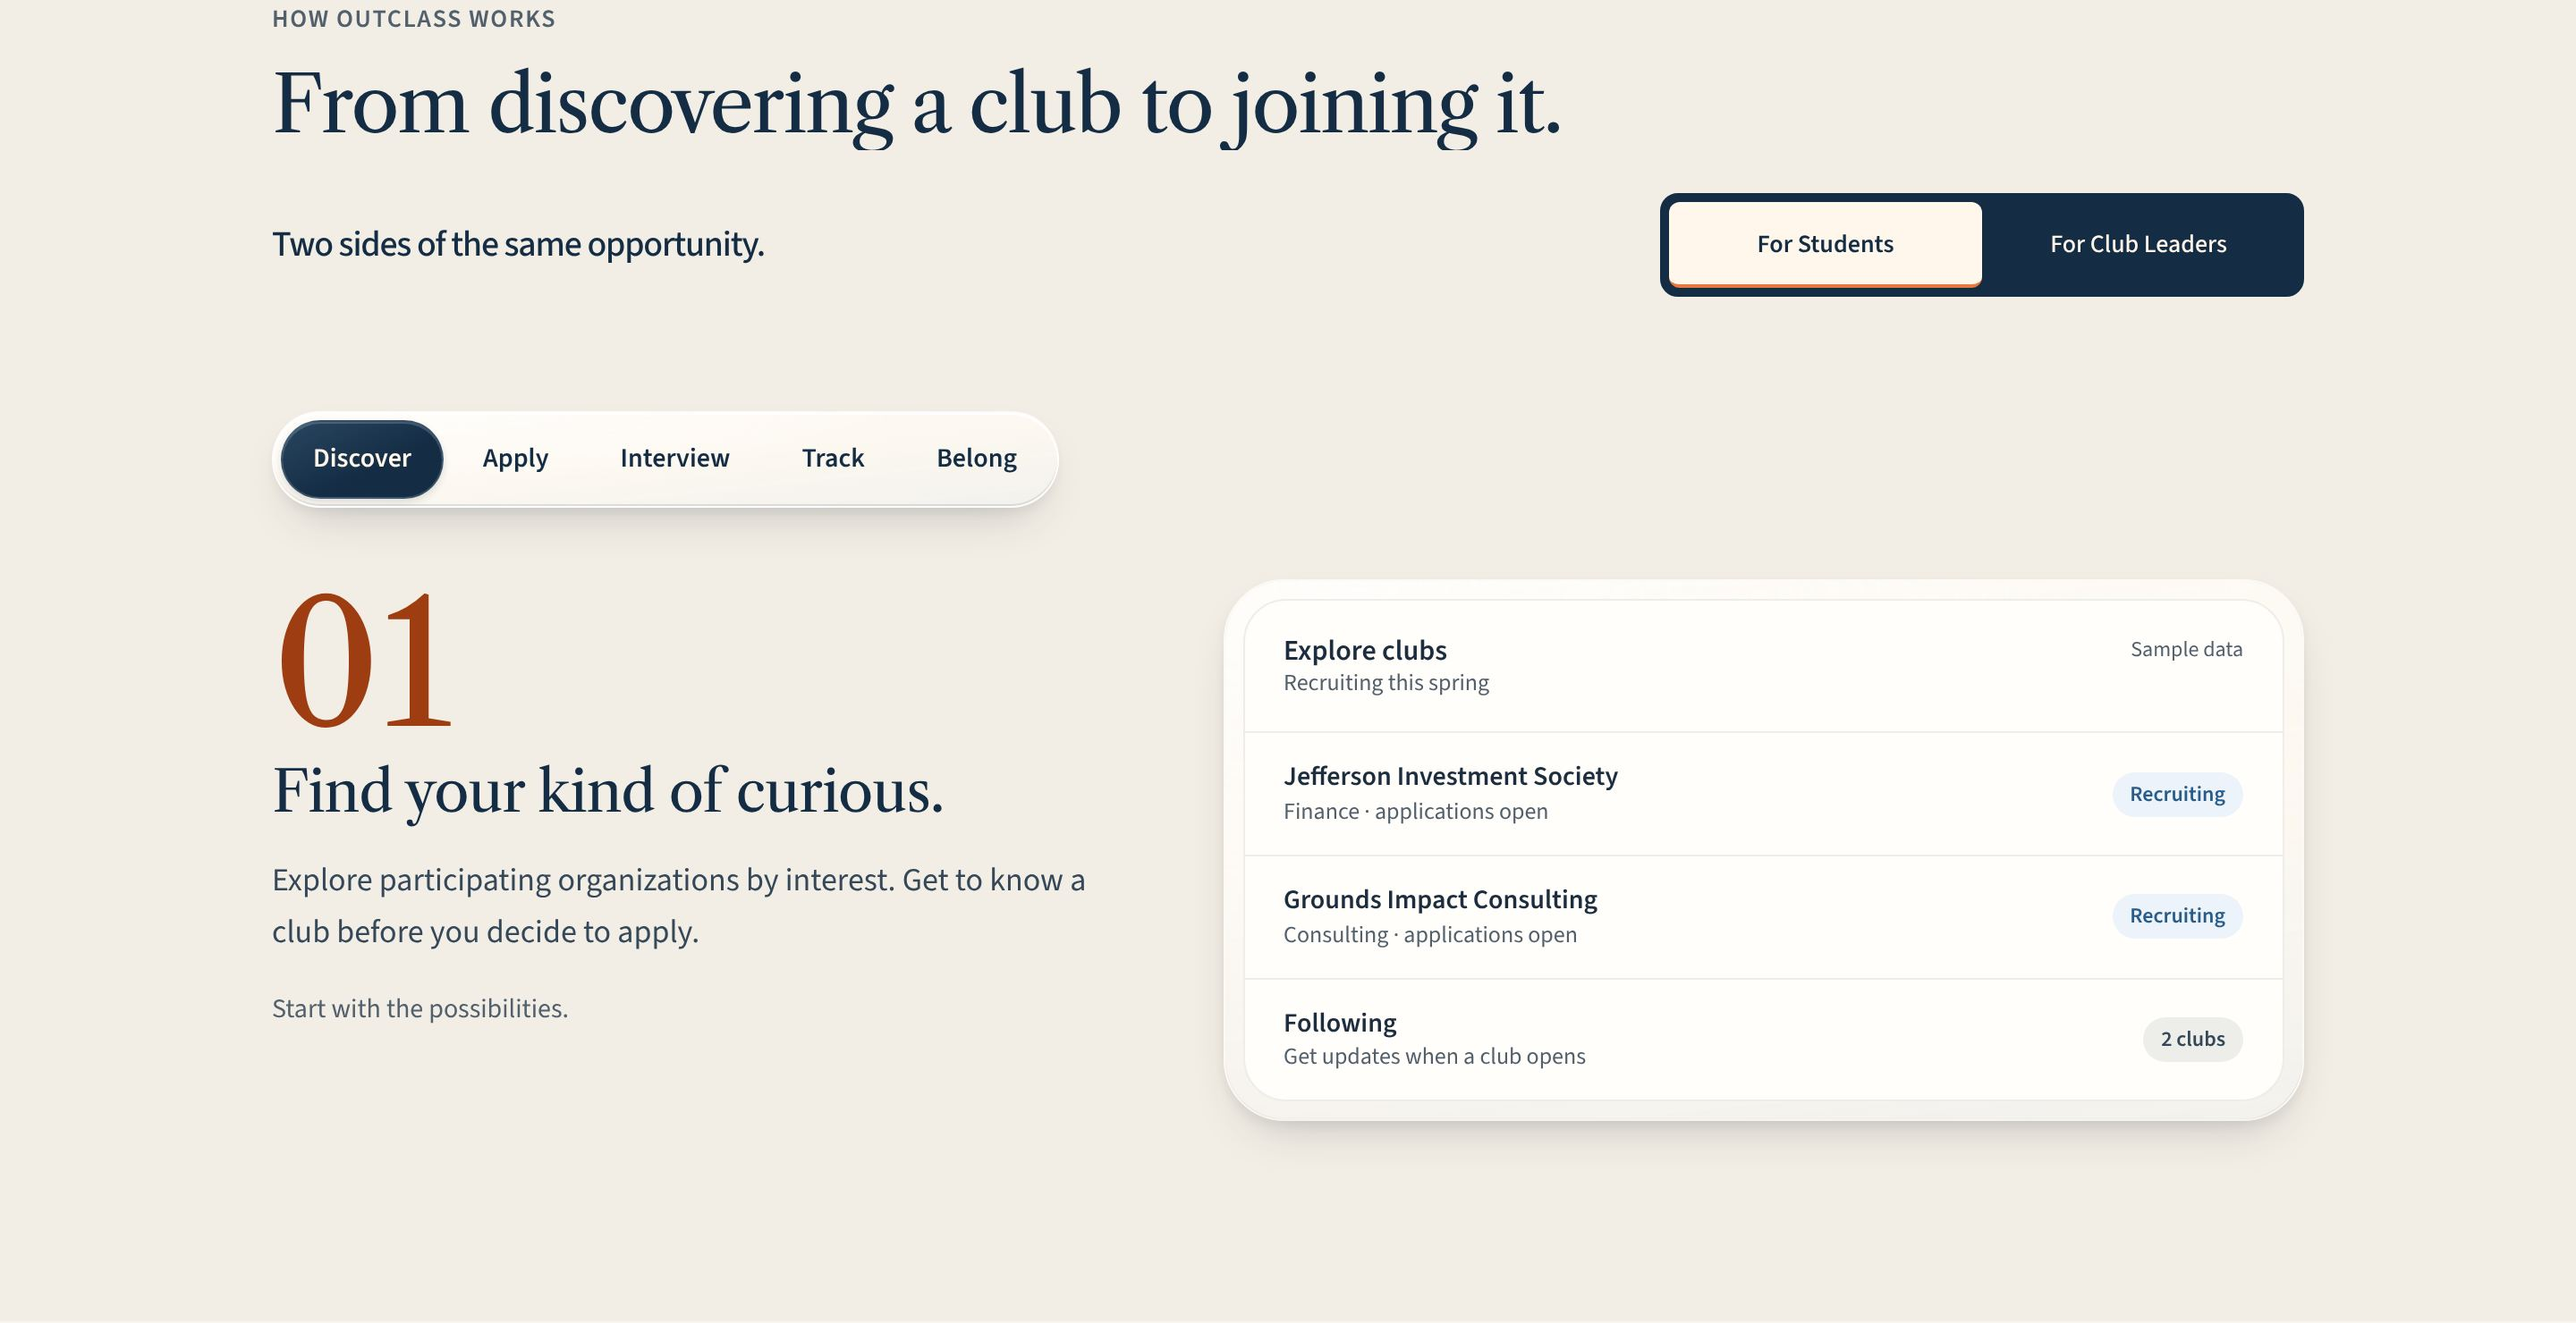
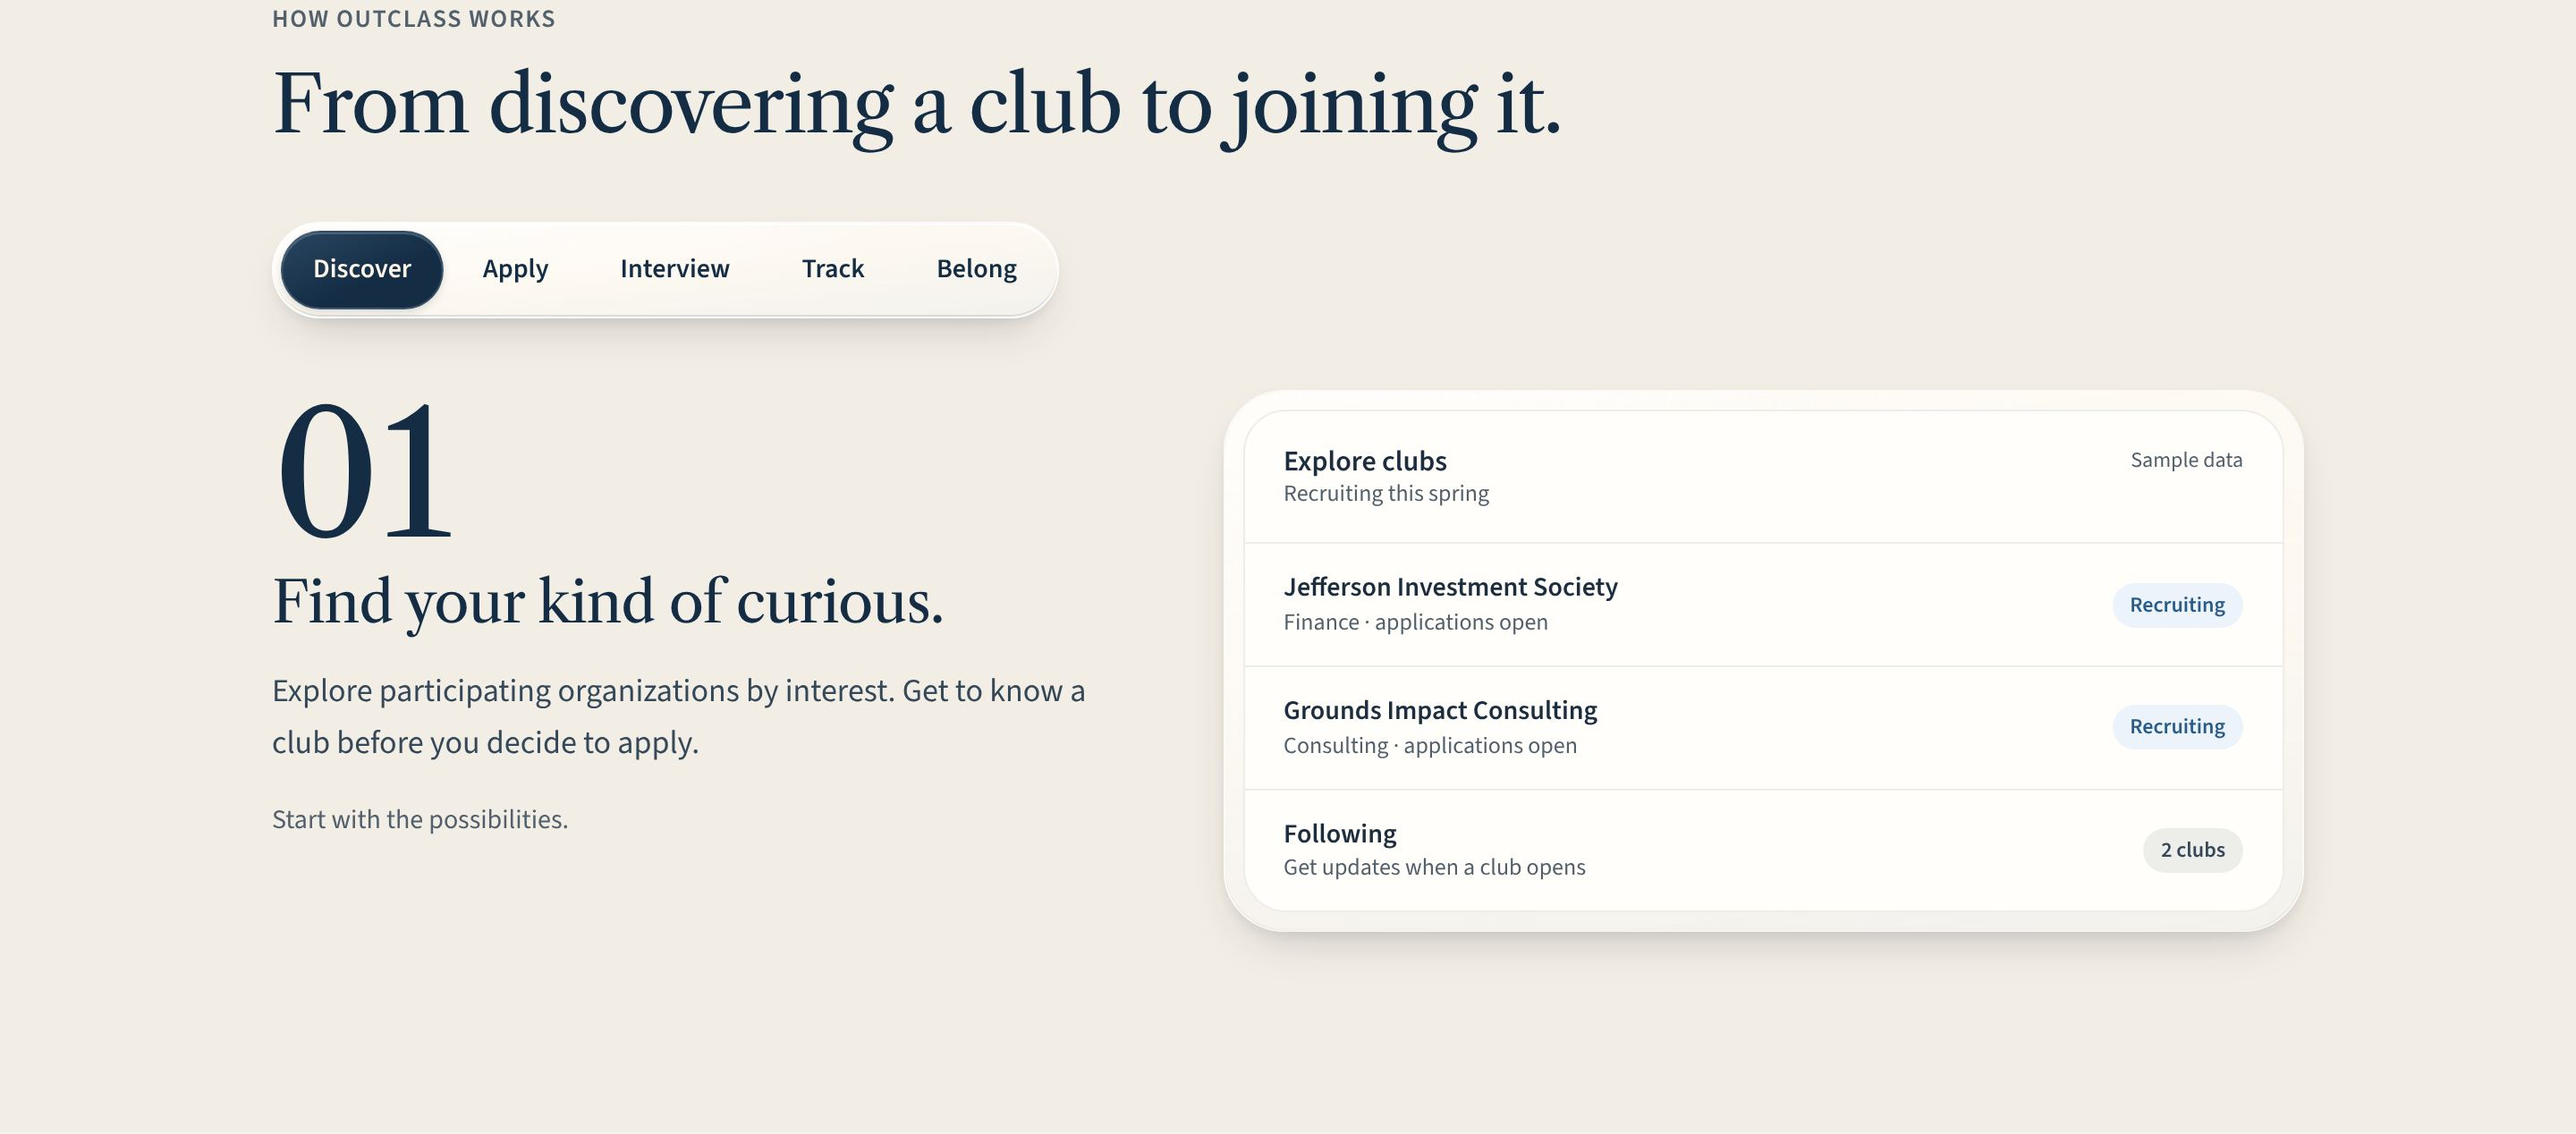
Journey: navy step number, no in-section switch, review fixes
- Step number is navy (no orange outside the two places in the spec)
- The "Two sides" audience switch is removed from the section; the hero sets
  the audience and the header's compact switch handoff is unchanged
- A bare #journey-N resolves the audience like useLandingPerspective (query,
  stored preference, current); later hashchanges read the settled audience
- #journey-N anchors are plain spans (no aria-hidden focus target)

Claude-Session: https://claude.ai/code/session_01SjNt4mu5uW6D9t3Ekv2t5a

diff --git a/components/landing/journey-tabs.tsx b/components/landing/journey-tabs.tsx
@@ -1,17 +1,21 @@
 "use client"
 
-import { useEffect, useState } from "react"
+import { useEffect, useLayoutEffect, useRef, useState } from "react"
 import { Tabs, TabsContent, TabsList, TabsTrigger } from "@/components/ui/tabs"
 import { equivalentJourneyStage, journeyChapterHref, journeyChapters, journeySample, type JourneyStage, type LandingPerspective } from "./journey-content"
-import { audienceFromQuery } from "@/lib/landing-audience"
+import { audienceFromPreference, audienceFromQuery, LANDING_AUDIENCE_PREFERENCE } from "@/lib/landing-audience"
 
 type Selection = { perspective: LandingPerspective; index: number }
 
-/** `#journey-N` (built by journeyChapterHref) names a step of the `?audience=` story, or of the current one. */
+/** `#journey-N` (built by journeyChapterHref) names a step of the `?audience=` story. A bare hash resolves the
+ *  audience as useLandingPerspective does (query, stored preference, then the current audience), because on
+ *  first load this runs before the hook's choice has committed. */
 function selectionFromLocation(fallback: LandingPerspective): Selection | null {
   const match = /^#journey-(\d+)$/.exec(window.location.hash)
   if (!match) return null
-  const perspective = audienceFromQuery(new URLSearchParams(window.location.search).get("audience")) ?? fallback
+  let saved: LandingPerspective | null = null
+  try { saved = audienceFromPreference(window.localStorage.getItem(LANDING_AUDIENCE_PREFERENCE)) } catch { /* Storage may be blocked. */ }
+  const perspective = audienceFromQuery(new URLSearchParams(window.location.search).get("audience")) ?? saved ?? fallback
   const last = journeyChapters[perspective].length - 1
   return { perspective, index: Math.min(Math.max(Number(match[1]) - 1, 0), last) }
 }
@@ -28,9 +32,13 @@ export function JourneyTabs({ perspective }: { perspective: LandingPerspective }
   const chapter = chapters[index]
   const sample = journeySample(perspective, chapter.stage)
 
+  // The audience the page has settled on (the hook resolves hash, query and stored preference after SSR).
+  const current = useRef(perspective)
+  useLayoutEffect(() => { current.current = perspective }, [perspective])
+
   useEffect(() => {
     const sync = () => {
-      const next = selectionFromLocation(perspective)
+      const next = selectionFromLocation(current.current)
       if (!next) return
       setSelection(next)
       // An out-of-range step (#journey-9) has no anchor for the browser to scroll to; bring the section into view.
@@ -39,8 +47,6 @@ export function JourneyTabs({ perspective }: { perspective: LandingPerspective }
     sync()
     window.addEventListener("hashchange", sync)
     return () => window.removeEventListener("hashchange", sync)
-    // The fallback audience only matters for a bare #journey-N; the hash handler must not re-run on every switch.
-    // eslint-disable-next-line react-hooks/exhaustive-deps
   }, [])
 
   const choose = (value: string) => {
@@ -54,7 +60,7 @@ export function JourneyTabs({ perspective }: { perspective: LandingPerspective }
   return (
     <div id="product-journey" className="oc-journey-tabs" data-perspective={perspective}>
       {/* Old deep links (#journey-1 …) still land on this section; the effect above selects their tab. */}
-      {chapters.map((item, i) => <span key={item.stage} id={`journey-${i + 1}`} className="oc-journey-anchor" tabIndex={-1} aria-hidden="true" />)}
+      {chapters.map((item, i) => <span key={item.stage} id={`journey-${i + 1}`} className="oc-journey-anchor" />)}
       <Tabs value={chapter.stage} onValueChange={choose}>
         <TabsList className="oc-journey-tablist" aria-label={perspective === "student" ? "Steps for students" : "Steps for club leaders"}>
           {chapters.map(item => <TabsTrigger key={item.stage} value={item.stage}>{item.label}</TabsTrigger>)}

diff --git a/components/landing/journey.css b/components/landing/journey.css
@@ -6,9 +6,6 @@
 .oc-journey-handoff-sentinel, .oc-journey-end-sentinel { position: absolute; width: 1px; height: 1px; pointer-events: none; }
 .oc-journey-handoff-sentinel { top: 0; left: 0; }
 .oc-journey-end-sentinel { bottom: 0; left: 0; }
-.oc-journey-controls { position: relative; z-index: 25; display: flex; align-items: center; justify-content: space-between; gap: 24px; padding: 24px 0; transition: opacity var(--oc-motion-state) var(--oc-motion-ease), transform var(--oc-motion-scene) var(--oc-motion-ease); }
-.oc-journey-controls-slot[data-merged="true"] .oc-journey-controls { opacity: 0; transform: translateY(-12px); pointer-events: none; }
-.oc-journey-controls > h2 { margin: 0; color: var(--primary); font-size: 20px; font-weight: 500; line-height: 1.4; letter-spacing: var(--oc-tracking-heading); text-wrap: balance; }
 .oc-perspective-switcher { position: relative; isolation: isolate; display: grid; grid-template-columns: minmax(0, 1fr) minmax(0, 1fr); flex-shrink: 0; width: 360px; max-width: 100%; padding: 4px; border: 1px solid var(--primary); background: var(--primary); border-radius: var(--oc-radius-md); }
 .oc-perspective-indicator { position: absolute; z-index: -1; top: 4px; bottom: 4px; left: 4px; width: calc((100% - 8px) / 2); border-radius: var(--oc-radius-sm); background: #fff7ec; border-bottom: 2px solid var(--brand-orange); transition: transform var(--oc-motion-state, 260ms) var(--oc-motion-ease, ease-out); }
 .oc-perspective-switcher[data-perspective="leader"] .oc-perspective-indicator { transform: translateX(100%); }
@@ -16,13 +13,10 @@
 .oc-perspective-switcher button[aria-pressed="true"] { color: var(--primary); font-weight: 600; }
 .oc-perspective-switcher[data-compact="false"] button { white-space: normal; }
 .oc-landing .oc-perspective-switcher button:focus-visible { outline-color: var(--ring); outline-offset: -4px; }
-@media (max-width: 800px) { .oc-journey-controls { flex-direction: column; gap: 12px; padding-block: 18px; text-align: center; } .oc-journey-controls > h2 { font-size: 18px; } }
 @media (max-width: 540px) {
-  .oc-journey-controls > h2 { font-size: 16px; }
   .oc-perspective-switcher { width: 100%; }
 }
 @media (prefers-reduced-motion: reduce) {
   .oc-landing { --oc-motion-press: 0ms; --oc-motion-state: 0ms; --oc-motion-scene: 0ms; }
-  .oc-journey-controls { transition: none; transform: none !important; }
   .oc-perspective-indicator { transition: none; }
 }

diff --git a/components/landing/product-stories.tsx b/components/landing/product-stories.tsx
@@ -1,6 +1,5 @@
 "use client"
 
-import { PerspectiveSwitcher } from "./perspective-switcher"
 import type { LandingPerspective } from "./journey-content"
 import { JourneyTabs } from "./journey-tabs"
 import "./journey.css"
@@ -9,11 +8,9 @@ import "./journey-atmosphere.css"
 import "./public-foundations.css"
 import type { useJourneyNavigation } from "@/hooks/use-journey-navigation"
 
-/** "How OutClass works" (docs/public-site/redesign/Main.mockup.html): a heading, the audience switch and one tabbed walkthrough. */
-export function ProductJourney({ perspective, selected = perspective, onPerspectiveChange, navigation }: {
+/** "How OutClass works" (docs/public-site/redesign/Main.mockup.html): a heading and one tabbed walkthrough. */
+export function ProductJourney({ perspective, navigation }: {
   perspective: LandingPerspective
-  selected?: LandingPerspective
-  onPerspectiveChange: (perspective: LandingPerspective) => void
   navigation: ReturnType<typeof useJourneyNavigation>
 }) {
   return (
@@ -25,12 +22,9 @@ export function ProductJourney({ perspective, selected = perspective, onPerspect
         <p className="oc-journey-kicker">How OutClass works</p>
         <h2 id="how-title">{perspective === "student" ? "From discovering a club to joining it." : "From first applicant to your next class."}</h2>
       </div>
+      {/* No in-section switch: the hero sets the audience. The sentinel still hands the header its compact switch. */}
       <div className="oc-journey-controls-slot" data-merged={navigation.merged}>
         <span ref={navigation.controlsRef} className="oc-journey-handoff-sentinel" aria-hidden="true" />
-        <div className="oc-journey-controls" inert={navigation.merged} aria-hidden={navigation.merged}>
-          <h2 id="perspective-title">Two sides of the same opportunity.</h2>
-          <PerspectiveSwitcher perspective={selected} onChange={onPerspectiveChange} />
-        </div>
       </div>
       <p className="sr-only" role="status">Showing the {perspective === "student" ? "student" : "club leader"} walkthrough.</p>
       <JourneyTabs perspective={perspective} />

diff --git a/components/landing/journey-tabs.css b/components/landing/journey-tabs.css
@@ -33,7 +33,7 @@
 .oc-journey-panel { display: grid; grid-template-columns: minmax(0, 4fr) minmax(0, 5fr); align-items: start; gap: 48px; }
 .oc-journey-panel:focus-visible { outline: 2px solid var(--primary); outline-offset: 8px; }
 .oc-journey-copy { display: flex; flex-direction: column; gap: 16px; min-width: 0; }
-.oc-journey-number { margin: 0 0 -12px; font-family: var(--oc-font-display); font-size: 96px; line-height: 1; color: var(--brand-ink); } /* --brand-orange is 2.5:1 on the linen canvas; brand-ink passes 3:1 */
+.oc-journey-number { margin: 0 0 -12px; font-family: var(--oc-font-display); font-size: 96px; line-height: 1; color: var(--primary); }
 .oc-journey-copy h3 { margin: 0; font-family: var(--oc-font-display); font-size: 32px; font-weight: 400; line-height: 1.2; letter-spacing: -.02em; color: var(--primary); }
 .oc-journey-description { margin: 0; font-size: 18px; line-height: 1.6; color: var(--secondary-foreground); }
 .oc-journey-detail { margin: 0; font-size: 15px; color: var(--muted-foreground); }

diff --git a/components/landing/journey-atmosphere.css b/components/landing/journey-atmosphere.css
@@ -3,7 +3,6 @@
 .oc-landing:has(.oc-product-stories) main { background: var(--oc-journey-linen); }
 .oc-landing .oc-launch-clubs { background: var(--oc-journey-linen); }
 .oc-landing .oc-product-stories { max-width: none; background: var(--oc-journey-linen); }
-.oc-landing .oc-journey-controls { background: var(--oc-journey-linen); }
 .oc-landing .oc-final-invitation h2 { color: var(--primary); max-width: 20ch; font-size: clamp(2rem, 4.5vw, 3.5rem); font-weight: 400; }
 .oc-landing .oc-invitation-campus { color: var(--brand-ink); font-size: 12px; text-transform: uppercase; letter-spacing: .08em; }
 .oc-landing .oc-invitation-note { max-width: 42ch; }

diff --git a/components/views/landing-page-view.tsx b/components/views/landing-page-view.tsx
@@ -48,7 +48,7 @@ export function LandingPageView({
         </LandingIntro>
         <LaunchClubs clubs={launchClubs} />
         <ScatteredTools />
-        <ProductJourney perspective={perspective} selected={selected} onPerspectiveChange={switchPerspective} navigation={journeyNavigation} />
+        <ProductJourney perspective={perspective} navigation={journeyNavigation} />
         <SectionReveal
           id="create-account"
           className="oc-final-invitation"

diff --git a/docs/public-site/redesign/journey/README.md b/docs/public-site/redesign/journey/README.md
@@ -13,7 +13,7 @@ Built from the "Sound familiar?" and "How OutClass works" sections of `../Main.m
   - `aria-selected` on the tabs
   - exactly one `tabpanel`
   Each step shows:
-  - the step number in upright Caslon
+  - the step number in upright navy Caslon
   - the title, description and detail from `journey-content.ts`
   - a light-glass sample card, labelled "Sample data"
 - **Deep links**: `journeyChapters`, `equivalentJourneyStage` and `journeyChapterHref` are kept.
@@ -21,13 +21,16 @@ Built from the "Sound familiar?" and "How OutClass works" sections of `../Main.m
     for step N of `?audience=` is selected (out of range selects the last step).
   - Choosing a tab writes the `journeyChapterHref` link with `replaceState`.
   - Switching audience keeps the task: Interview stays Interview; Decide becomes Track.
-- **Kept**: the existing audience switch block ("Two sides of the same opportunity.") and its header
-  handoff (`useJourneyNavigation`), so readers can still change audience inside the section.
+- **Audience switch**: the section has no switch of its own; the hero sets the audience. The
+  `useJourneyNavigation` sentinel stays, so the header's compact switch still appears while reading the
+  section, as before.
+- **Bare deep links**: a `#journey-N` with no `?audience=` resolves the audience as `useLandingPerspective`
+  does (query, then stored preference, then the current audience).
 
 ## Deviations
 
-- The step number is `--brand-ink`, not `--brand-orange`: orange is 2.51:1 on the linen canvas and fails
-  axe's 3:1 large-text minimum. The spec's orange rule now names this exception.
+- The step number is navy, not the mockup's orange (owner decision; orange stays limited to the two places
+  in the spec).
 - Kickers are muted ink, not the mockup's orange-brown, per the spec's orange rule.
 - Sample chips use the success, info, muted and navy tokens; the mockup's orange "active" chip is info blue.
 
@@ -40,6 +43,8 @@ All of these pass:
 - **Deep links**: `?audience=leader#journey-4` opens Interview, `student#journey-3` Interview,
   `student#journey-5` Belong, `leader#journey-1` Set Up, and `student#journey-9` Belong. Each one
   scrolls to the section.
+- **Stored preference**: a bare `#journey-3` opens Interview with a stored student preference and Review
+  with a stored club-leader preference.
 - **hashchange** to `#journey-5` selects Decide.
 - **360, 390 and 1440, both audiences**: horizontal overflow 0, no transitions or animations under
   reduced motion, and axe 0 on both sections.

diff --git a/docs/public-site/redesign/README.md b/docs/public-site/redesign/README.md
@@ -36,9 +36,7 @@ When a page is built from a mockup, use the repo asset, never the blob URL.
 3. **Type.** Source Sans (`--oc-font-sans`) for body text. Libre Caslon (`--oc-font-display`) for headings
    only, always upright. No italics anywhere.
 4. **Brand orange appears in exactly two places:** the hero headline's accent word, and "class" in the final
-   call to action. Not in kickers, links, rules, dots or focus rings. One exception: the large step number in
-   "How OutClass works" (the mockup's orange numeral), set in `--brand-ink` because `--brand-orange` fails
-   contrast on the linen canvas.
+   call to action. Not in kickers, links, rules, dots or focus rings.
 5. **No decorative icons.** The only images are logos, headshots and campus photos.
 
 ## Glass utilities
